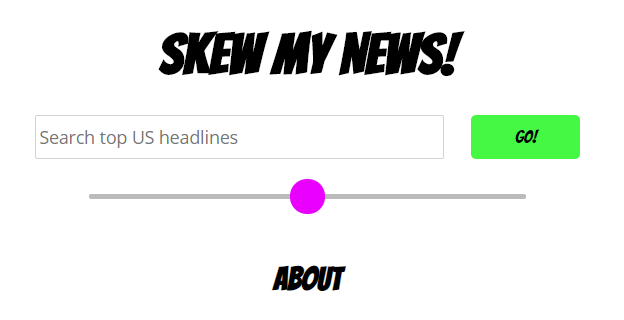
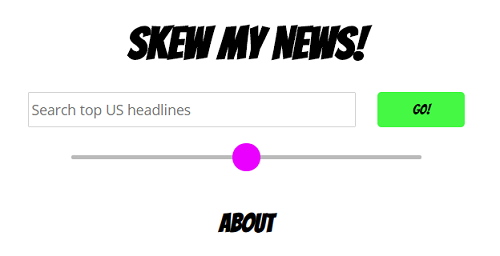
Fix screenshot paths, resize images

diff --git a/README.md b/README.md
@@ -8,11 +8,11 @@ https://ryandthorn.github.io/skew-my-news/
 
 ## Screenshots
 
-![Home](/screenshots/Home.png "Home")
-![About](/screenshots/About.png "About")
-![Left](/screenshots/Left.png "Left")
-![Right](/screenshots/Right.png "Right")
-![Mobile View](/screenshots/Mobile.png "Mobile")
+![Home](https://github.com/ryandthorn/skew-my-news/blob/master/screenshots/Home.PNG "Home")
+![About](https://github.com/ryandthorn/skew-my-news/blob/master/screenshots/About.PNG "About")
+![Left](https://github.com/ryandthorn/skew-my-news/blob/master/screenshots/Left.PNG "Left")
+![Right](https://github.com/ryandthorn/skew-my-news/blob/master/screenshots/Right.PNG "Right")
+![Mobile View](https://github.com/ryandthorn/skew-my-news/blob/master/screenshots/Mobile.PNG "Mobile")
 
 ## How It Works
 
